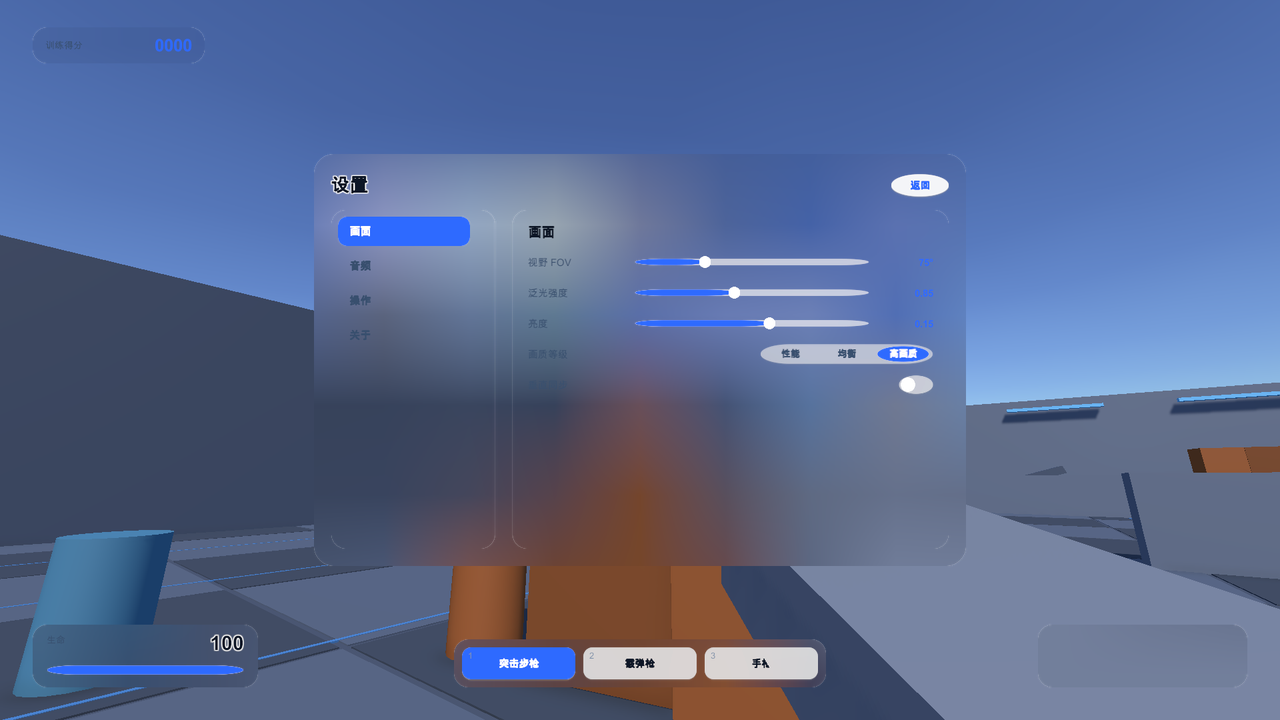
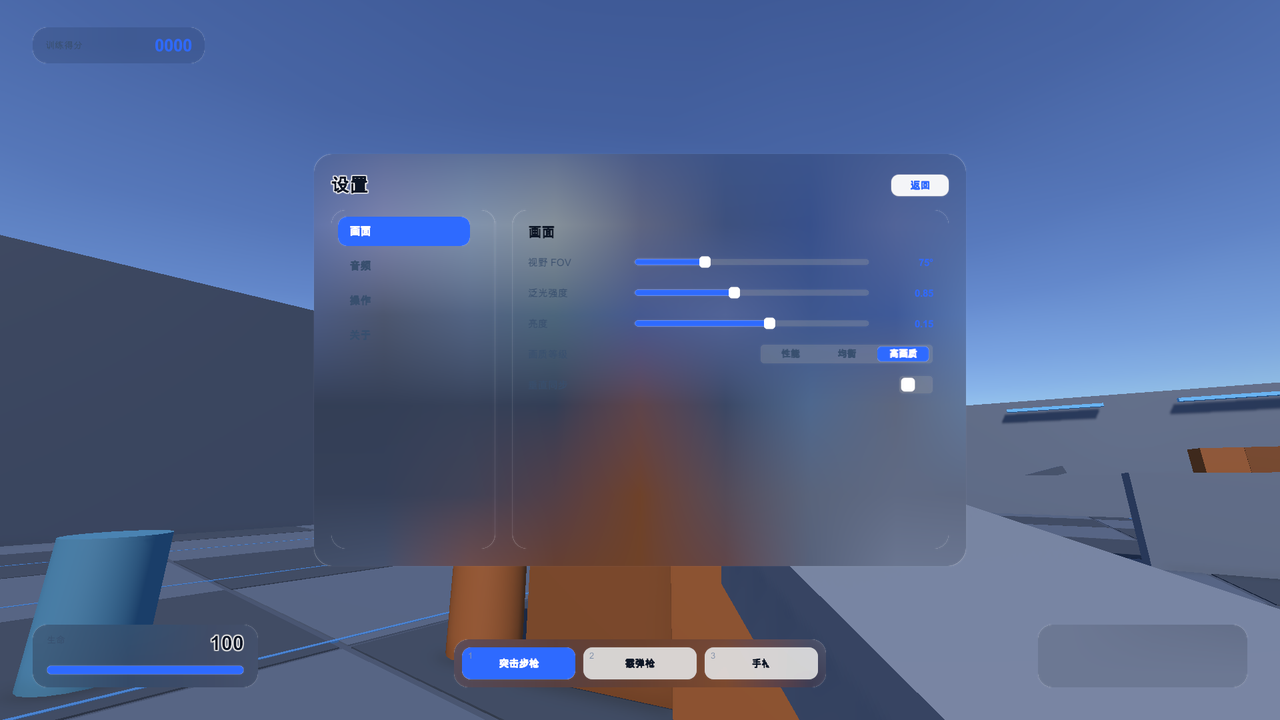
fix(视觉): 那圈边框的根因是格子底/轨道/底槽只给了 20~30% 半透明黑，压在明亮玻璃上没压住，彩色块周围露出的一圈亮玻璃被看成边框——改成不透的暗色凹槽；物品填满格子；圆角贴图去掉 R/G 通道（纯白 RGB + 形状 alpha）；所有 99/999 的胶囊圆角改成实际半径（12/6/5），不再出现椭圆

diff --git a/Assets/Scripts/UI/GlassMaterials.cs b/Assets/Scripts/UI/GlassMaterials.cs
@@ -4,8 +4,8 @@ using UnityEngine;
 namespace GlassUI
 {
     /// <summary>
-    /// 圆角贴图的访问入口。贴图由菜单「Glass Demo / 0. 生成圆角贴图」程序化生成。
-    /// 一张贴图三个通道：A = 形状，R = 边缘渐变（玻璃厚度高光），G = 描边带。
+    /// 圆角贴图访问入口。贴图由菜单「Glass Demo / 0. 生成圆角贴图」程序化生成：
+    /// alpha = 形状，RGB = 纯白。
     /// </summary>
     public static class GlassSprites
     {
@@ -30,7 +30,15 @@ namespace GlassUI
             return sprite;
         }
 
-        /// <summary>按想要的圆角半径挑最接近的贴图（九宫格圆角是固定像素的，半径要跟贴图对上）。</summary>
+        /// <summary>贴图里烘焙的圆角半径（从名字 roundNN 解析）。</summary>
+        public static float BakedRadius(string spriteName)
+        {
+            if (string.IsNullOrEmpty(spriteName)) return 0f;
+            if (spriteName.StartsWith("round") && float.TryParse(spriteName.Substring(5), out var value)) return value;
+            return 0f;
+        }
+
+        /// <summary>按想要的圆角半径挑最接近的贴图（真实半径由 ppuMultiplier 换算，见 GlassUI.ApplyRadius）。</summary>
         public static string ForRadius(float radius)
         {
             if (radius <= 11f) return Round08;
@@ -41,16 +49,13 @@ namespace GlassUI
         }
     }
 
-    /// <summary>
-    /// UI 材质。这些材质在运行时创建（编辑器里建出来的材质存不进场景），所以同一份配置只建一次并缓存。
-    /// </summary>
+    /// <summary>UI 材质：运行时创建、按参数分档缓存。</summary>
     public static class GlassMaterials
     {
         static Material _rounded;
         static readonly Dictionary<int, Material> FrostedCache = new Dictionary<int, Material>();
-        static readonly Dictionary<int, Material> StrokedCache = new Dictionary<int, Material>();
 
-        /// <summary>实心圆角块：颜色走顶点色，所以全工程共用一份材质。</summary>
+        /// <summary>实心圆角块：颜色走顶点色，全工程共用一份材质。</summary>
         public static Material Rounded()
         {
             if (_rounded == null)
@@ -62,7 +67,7 @@ namespace GlassUI
             return _rounded;
         }
 
-        /// <summary>毛玻璃：按 blurLod 分档共用材质（同一档位一份）。</summary>
+        /// <summary>毛玻璃：按 blurLod 分档共用。背景统一叠 20% 黑。</summary>
         public static Material Frosted(float blurLod = 7f)
         {
             int key = Mathf.RoundToInt(blurLod * 10f);
@@ -77,35 +82,15 @@ namespace GlassUI
                 hideFlags = HideFlags.HideAndDontSave,
             };
             material.SetFloat("_BlurLod", blurLod);
-            material.SetFloat("_Darken", 0.10f);   // 背景统一叠 10% 黑
+            material.SetFloat("_Darken", 0.20f);
             FrostedCache[key] = material;
             return material;
         }
 
-        /// <summary>带描边的实心圆角块（输入框、选中态描边）。</summary>
+        /// <summary>圆角块（描边通道已取消，需要描边用单独的圆角框控件）。</summary>
         public static Material Stroked(Color strokeColor, float strength)
         {
-            int key = ColorKey(strokeColor) * 100 + Mathf.RoundToInt(strength * 100f);
-            if (StrokedCache.TryGetValue(key, out var cached) && cached != null) return cached;
-
-            var shader = Shader.Find("UI/RoundedRect");
-            if (shader == null) return null;
-
-            var material = new Material(shader)
-            {
-                name = "RoundedRect (stroked)",
-                hideFlags = HideFlags.HideAndDontSave,
-            };
-            material.SetColor("_StrokeColor", strokeColor);
-            material.SetFloat("_StrokeStrength", Mathf.Clamp01(strength));
-            StrokedCache[key] = material;
-            return material;
-        }
-
-        static int ColorKey(Color c)
-        {
-            return (Mathf.RoundToInt(c.r * 255f) << 24) | (Mathf.RoundToInt(c.g * 255f) << 16) |
-                   (Mathf.RoundToInt(c.b * 255f) << 8) | Mathf.RoundToInt(c.a * 255f);
+            return Rounded();
         }
     }
 }

diff --git a/Assets/Editor/GlassSpriteGenerator.cs b/Assets/Editor/GlassSpriteGenerator.cs
@@ -1,0 +1,91 @@
+using System.IO;
+using UnityEditor;
+using UnityEngine;
+
+namespace GlassUI.EditorTools
+{
+    /// <summary>
+    /// 程序化生成圆角贴图（写进 Assets/Resources/GlassSprites，打成九宫格）。
+    ///
+    /// 贴图里只有两样东西：
+    ///   alpha = 形状覆盖率（含 1 像素抗锯齿）
+    ///   RGB   = 纯白（颜色由控件自己的顶点色乘法决定）
+    ///
+    /// 早先还在 RGB 里塞了"边缘渐变 + 描边带"，双线性过滤时那些暗色会渗到边缘，
+    /// 每个圆角形状就多出一圈边框 —— 现在没有了。
+    ///
+    /// 圆角半径是固定像素的，用 Image.pixelsPerUnitMultiplier 缩放到需要的半径，
+    /// 所以任意半径都共用这几张贴图，也不会因为边框比控件大而被挤成椭圆。
+    ///
+    /// 菜单：Glass Demo / 0. 生成圆角贴图
+    /// </summary>
+    public static class GlassSpriteGenerator
+    {
+        const string Dir = "Assets/Resources/GlassSprites";
+
+        static readonly int[] Radii = { 8, 14, 22, 30, 44 };
+
+        [MenuItem("Glass Demo/0. 生成圆角贴图", priority = 0)]
+        public static void Generate()
+        {
+            Directory.CreateDirectory(Dir);
+            foreach (var radius in Radii) SaveRounded($"round{radius:00}", radius);
+            AssetDatabase.Refresh();
+            Debug.Log($"[GlassUI] 圆角贴图已生成到 {Dir}（半径 {string.Join("/", Radii)}，纯白 RGB + 形状 alpha）");
+        }
+
+        static void SaveRounded(string name, int radius)
+        {
+            int size = radius * 2 + 8;
+            int border = radius + 2;
+
+            var tex = new Texture2D(size, size, TextureFormat.RGBA32, false);
+            var pixels = new Color32[size * size];
+            float half = size * 0.5f;
+            float r = Mathf.Max(0.5f, half - 1f);
+            float corner = Mathf.Min(radius, r);
+
+            for (int y = 0; y < size; y++)
+            {
+                for (int x = 0; x < size; x++)
+                {
+                    float px = x + 0.5f - half;
+                    float py = y + 0.5f - half;
+
+                    // 圆角矩形有符号距离场：<0 在里面
+                    float qx = Mathf.Abs(px) - (r - corner);
+                    float qy = Mathf.Abs(py) - (r - corner);
+                    float d = new Vector2(Mathf.Max(qx, 0f), Mathf.Max(qy, 0f)).magnitude
+                              + Mathf.Min(Mathf.Max(qx, qy), 0f) - corner;
+
+                    float inside = Mathf.Clamp01(0.5f - d);
+                    pixels[y * size + x] = new Color32(255, 255, 255, (byte)(inside * 255f));
+                }
+            }
+
+            tex.SetPixels32(pixels);
+            tex.Apply(false, false);
+
+            var path = $"{Dir}/{name}.png";
+            File.WriteAllBytes(path, tex.EncodeToPNG());
+            Object.DestroyImmediate(tex);
+            AssetDatabase.ImportAsset(path, ImportAssetOptions.ForceUpdate);
+
+            var importer = AssetImporter.GetAtPath(path) as TextureImporter;
+            if (importer == null) return;
+
+            importer.textureType = TextureImporterType.Sprite;
+            importer.spriteImportMode = SpriteImportMode.Single;
+            importer.spritePixelsPerUnit = 100f;
+            importer.spriteBorder = new Vector4(border, border, border, border);
+            importer.filterMode = FilterMode.Bilinear;
+            importer.mipmapEnabled = false;
+            importer.wrapMode = TextureWrapMode.Clamp;
+            importer.alphaIsTransparency = true;
+            importer.npotScale = TextureImporterNPOTScale.None;
+            importer.textureCompression = TextureImporterCompression.Uncompressed;
+            importer.maxTextureSize = 256;
+            importer.SaveAndReimport();
+        }
+    }
+}

diff --git a/Assets/Scripts/UI/GlassUI.cs b/Assets/Scripts/UI/GlassUI.cs
@@ -209,6 +209,7 @@ namespace GlassUI
             image.sprite = GlassSprites.Get(GlassSprites.ForRadius(radius));
             image.type = Image.Type.Sliced;
             image.material = GlassMaterials.Frosted(blurLod);
+            ApplyRadius(image, radius);
             image.color = Color.white;      // 白色 = 不给玻璃上色
             image.raycastTarget = true;
             return image;
@@ -218,6 +219,18 @@ namespace GlassUI
         /// 实心圆角块（蓝白色条、胶囊、进度条、按钮底）。
         /// opacity &lt; 1 用来做"二级按钮/勾选框"那种更轻的背景框；shadow 给它们一点点黑色阴影。
         /// </summary>
+        /// <summary>把九宫格贴图的边框缩放到目标半径：任意半径共用同一批贴图，也绝不会被挤成椭圆。</summary>
+        /// <summary>临时开关：用来 A/B 验证那圈浅色边框到底是不是 Shadow 造成的。</summary>
+        public static bool SHADOWS_ENABLED = true;
+
+        static void ApplyRadius(Image image, float radius)
+        {
+            var sprite = image.sprite;
+            if (sprite == null) return;
+            float baked = GlassSprites.BakedRadius(sprite.name);
+            image.pixelsPerUnitMultiplier = baked > 0.01f && radius > 0.01f ? baked / radius : 1f;
+        }
+
         public static Image Rect(Transform parent, string name, Color color, float radius = GlassTheme.RadiusPill,
             float opacity = 1f, bool shadow = false)
         {
@@ -226,15 +239,15 @@ namespace GlassUI
             image.sprite = GlassSprites.Get(GlassSprites.ForRadius(radius));
             image.type = Image.Type.Sliced;
             image.material = GlassMaterials.Rounded();
+            ApplyRadius(image, radius);
             image.color = opacity >= 1f ? color : new Color(color.r, color.g, color.b, color.a * opacity);
             image.raycastTarget = false;
 
-            if (shadow)
+            if (shadow && SHADOWS_ENABLED)
             {
-                // UGUI 自带的 Shadow：便宜、够用，就是"一点点黑色阴影"
                 var shadowEffect = image.gameObject.AddComponent<Shadow>();
-                shadowEffect.effectColor = new Color(0f, 0f, 0f, 0.35f);
-                shadowEffect.effectDistance = new Vector2(0f, -2f);
+                shadowEffect.effectColor = new Color(0f, 0f, 0f, 0.22f);
+                shadowEffect.effectDistance = new Vector2(0f, -1f);
                 shadowEffect.useGraphicAlpha = true;
             }
             return image;

diff --git a/Assets/Scripts/UI/GlassSegmented.cs b/Assets/Scripts/UI/GlassSegmented.cs
@@ -26,10 +26,10 @@ namespace GlassUI
             var label = GlassUI.Label(row, name, 15, TextAnchor.MiddleLeft, GlassTheme.InkSoft);
             GlassUI.Place(label.rectTransform, new Vector2(0f, 0.5f), new Vector2(180f, 26f), Vector2.zero, new Vector2(0f, 0.5f));
 
-            var holder = GlassUI.Rect(row, "Holder", new Color(1f, 1f, 1f, 0.32f), 99f, 0.9f, true);
+            var holder = GlassUI.Rect(row, "Holder", new Color(0f, 0f, 0f, 0.58f), 6f, 1f, false);
             GlassUI.Place(holder.rectTransform, new Vector2(1f, 0.5f), new Vector2(260f, 30f), Vector2.zero, new Vector2(1f, 0.5f));
 
-            var highlight = GlassUI.Rect(holder.transform, "Highlight", GlassTheme.Blue, 99f);
+            var highlight = GlassUI.Rect(holder.transform, "Highlight", GlassTheme.Blue, 6f);
             highlight.rectTransform.anchorMin = new Vector2(0f, 0.5f);
             highlight.rectTransform.anchorMax = new Vector2(0f, 0.5f);
             highlight.rectTransform.pivot = new Vector2(0f, 0.5f);
@@ -46,7 +46,7 @@ namespace GlassUI
                 var item = GlassUI.Node(holder.transform, "Item " + i);
                 GlassUI.Place(item, new Vector2(0f, 0.5f), new Vector2(width, 24f), new Vector2(3f + width * i, 0f), new Vector2(0f, 0.5f));
 
-                var hit = GlassUI.Rect(item, "Hit", new Color(1f, 1f, 1f, 0f), 99f);
+                var hit = GlassUI.Rect(item, "Hit", new Color(1f, 1f, 1f, 0f), 6f);
                 GlassUI.Stretch(hit.rectTransform);
                 hit.raycastTarget = true;
                 hit.gameObject.AddComponent<Button>().onClick.AddListener(() => segmented.Select(index));

diff --git a/Assets/Scripts/UI/GlassToggle.cs b/Assets/Scripts/UI/GlassToggle.cs
@@ -37,11 +37,11 @@ namespace GlassUI
             var label = GlassUI.Label(row, name, 15, TextAnchor.MiddleLeft, GlassTheme.InkSoft);
             GlassUI.Place(label.rectTransform, new Vector2(0f, 0.5f), new Vector2(320f, 26f), Vector2.zero, new Vector2(0f, 0.5f));
 
-            var bg = GlassUI.Rect(row, "BG", new Color(1f, 1f, 1f, 0.40f), 99f, 0.9f, true);   // 背景框降 10% 不透明 + 一点黑阴影
+            var bg = GlassUI.Rect(row, "BG", new Color(0f, 0f, 0f, 0.58f), 6f, 1f, false);   // 背景框降 10% 不透明 + 一点黑阴影
             GlassUI.Place(bg.rectTransform, new Vector2(1f, 0.5f), new Vector2(52f, 28f), Vector2.zero, new Vector2(1f, 0.5f));
             bg.raycastTarget = true;
 
-            var knob = GlassUI.Rect(bg.transform, "Knob", Color.white, 99f);
+            var knob = GlassUI.Rect(bg.transform, "Knob", Color.white, 6f);
             GlassUI.Place(knob.rectTransform, new Vector2(0f, 0.5f), new Vector2(22f, 22f), new Vector2(3f, 0f), new Vector2(0f, 0.5f));
 
             var toggle = row.gameObject.AddComponent<GlassToggle>();

diff --git a/Assets/Scripts/UI/HudView.cs b/Assets/Scripts/UI/HudView.cs
@@ -95,7 +95,7 @@ namespace GlassUI
 
             for (int i = 0; i < 4; i++)
             {
-                var tick = GlassUI.Rect(_crosshair, $"Tick {i}", new Color(1f, 1f, 1f, 0.92f), 99f);
+                var tick = GlassUI.Rect(_crosshair, $"Tick {i}", new Color(1f, 1f, 1f, 0.92f), 6f);
                 GlassUI.Place(tick.rectTransform, new Vector2(0.5f, 0.5f), new Vector2(2.6f, 11f), Vector2.zero);
                 _ticks.Add(tick.rectTransform);
             }
@@ -104,7 +104,7 @@ namespace GlassUI
             GlassUI.Place(_hitMarker, new Vector2(0.5f, 0.5f), new Vector2(42f, 42f), Vector2.zero);
             for (int i = 0; i < 4; i++)
             {
-                var mark = GlassUI.Rect(_hitMarker, $"Mark {i}", Color.white, 99f);
+                var mark = GlassUI.Rect(_hitMarker, $"Mark {i}", Color.white, 6f);
                 GlassUI.Place(mark.rectTransform, new Vector2(0.5f, 0.5f), new Vector2(2.4f, 9f), Vector2.zero);
                 var rt = mark.rectTransform;
                 rt.localRotation = Quaternion.Euler(0f, 0f, 45f + i * 90f);

diff --git a/Assets/Scripts/UI/GlassSlider.cs b/Assets/Scripts/UI/GlassSlider.cs
@@ -40,13 +40,13 @@ namespace GlassUI
             var track = GlassUI.Node(row, "Track");
             GlassUI.Stretch(track, 160f, 12f, 96f, 12f);
 
-            var bg = GlassUI.Rect(track, "BG", new Color(1f, 1f, 1f, 0.40f), 99f);
+            var bg = GlassUI.Rect(track, "BG", new Color(0f, 0f, 0f, 0.62f), 5f);
             GlassUI.Stretch(bg.rectTransform);
 
-            var fill = GlassUI.Rect(track, "Fill", GlassTheme.Blue, 99f);
+            var fill = GlassUI.Rect(track, "Fill", GlassTheme.Blue, 5f);
             GlassUI.Stretch(fill.rectTransform);
 
-            var knob = GlassUI.Rect(track, "Knob", Color.white, 99f);
+            var knob = GlassUI.Rect(track, "Knob", Color.white, 5f);
             // 用锚点表示位置：拉伸矩形上改 anchoredPosition 会被拉伸/变形，锚点则天然跟着比例走
             knob.rectTransform.anchorMin = new Vector2(0f, 0.5f);
             knob.rectTransform.anchorMax = new Vector2(0f, 0.5f);

diff --git a/Assets/Scripts/UI/GlassBar.cs b/Assets/Scripts/UI/GlassBar.cs
@@ -23,10 +23,10 @@ namespace GlassUI
             var holder = GlassUI.Node(parent, "Glass Bar");
             GlassUI.Place(holder, new Vector2(0f, 0f), size, new Vector2(margin.x, margin.y), new Vector2(0f, 0f));
 
-            var background = GlassUI.Rect(holder, "BG", new Color(1f, 1f, 1f, 0.38f), 99f);
+            var background = GlassUI.Rect(holder, "BG", new Color(0f, 0f, 0f, 0.62f), 6f);
             GlassUI.Stretch(background.rectTransform);
 
-            var fill = GlassUI.Rect(holder, "Fill", GlassTheme.Blue, 99f);
+            var fill = GlassUI.Rect(holder, "Fill", GlassTheme.Blue, 6f);
             GlassUI.Stretch(fill.rectTransform);
 
             var bar = holder.gameObject.AddComponent<GlassBar>();

diff --git a/Assets/Scripts/UI/ItemChip.cs b/Assets/Scripts/UI/ItemChip.cs
@@ -22,7 +22,7 @@ namespace GlassUI
         public static ItemChip Create(Transform parent, ItemDef item, InventoryView view)
         {
             var holder = GlassUI.Node(parent, "Item: " + item.name);
-            GlassUI.Stretch(holder, 5f, 5f, 5f, 5f);
+            GlassUI.Stretch(holder, 1f, 1f, 1f, 1f);   // 填满格子，别留出漏光的缝
 
             var bg = GlassUI.Rect(holder, "BG", item.color, GlassTheme.RadiusItem);
             GlassUI.Stretch(bg.rectTransform);

diff --git a/Assets/Scripts/UI/InventorySlot.cs b/Assets/Scripts/UI/InventorySlot.cs
@@ -15,7 +15,7 @@ namespace GlassUI
 
         public static InventorySlot Create(Transform parent, int index)
         {
-            var frame = GlassUI.Rect(parent, $"Slot {index:00}", new Color(1f, 1f, 1f, 0.28f), GlassTheme.RadiusItem, 0.9f, true);
+            var frame = GlassUI.Rect(parent, $"Slot {index:00}", new Color(0f, 0f, 0f, 0.58f), GlassTheme.RadiusItem, 1f, false);
             GlassUI.Fix(frame, 72f, 72f);
             frame.raycastTarget = true;
 

diff --git a/Assets/Scripts/Core/GlassTheme.cs b/Assets/Scripts/Core/GlassTheme.cs
@@ -38,7 +38,7 @@ namespace GlassUI
         public const float RadiusPanel = 28f;
         public const float RadiusCard = 22f;
         public const float RadiusItem = 14f;
-        public const float RadiusPill = 999f;
+        public const float RadiusPill = 12f;   // 统一 R 角矩形，不做椭圆/胶囊
 
         public static Color Hex(string hex)
         {
